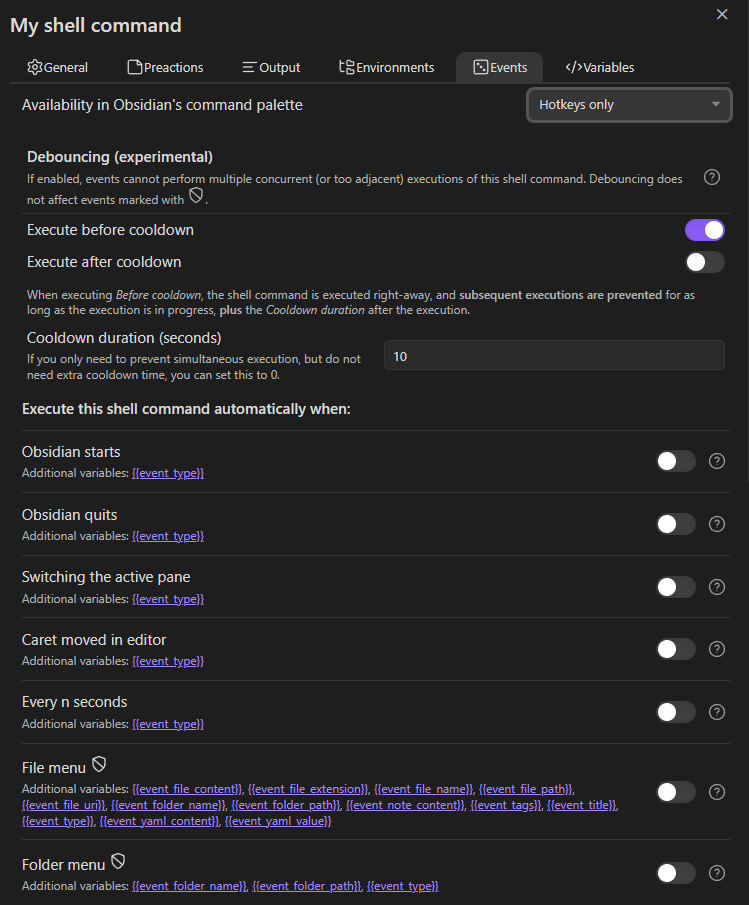
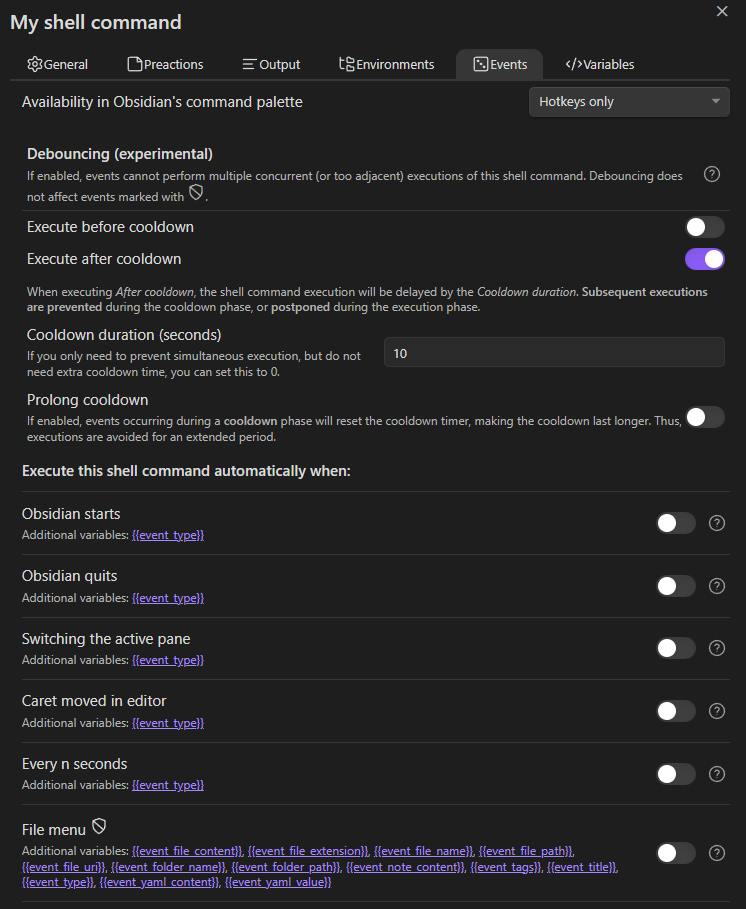
[[Events - debouncing.md]]: Information about _Prolong cooldown_.
https://github.com/Taitava/obsidian-shellcommands/issues/380

diff --git a/Events/Events - debouncing.md b/Events/Events - debouncing.md
@@ -38,6 +38,16 @@ aliases:
 > Shell\;command\;execution\;duration + Cooldown\;duration = Debounce\;total\;duration\;
 > $$
 
+### Cooldown can be prolonged
+Below the _Cooldown duration_ setting, there is another setting called _Prolong cooldown_. If turned on, then each discarded or postponed event occurrence that happens **during a cooldown phase** will cause the cooldown to **start over**. This prolongs the phase (during which shell command execution is postponed or discarded) for as long as events keep occurring.
+
+> [!Success] Ideal use case for cooldown prolonging
+> Prolonging is ideal for example when editing files triggers automatic backup or synchronization. These processes are only wanted to be executed after all edits are done.
+
+> [!Warning] When cooldown prolonging is not beneficial
+> - Prolonging is not desired when results are needed quickly, and when multiple executions (even unnecessary ones) do no harm.
+> - For example, a `git lens` command that outputs the latest [Git](https://git-scm.com) commit time, message and author, is expected to be executed shortly after moving the caret in editor, so _Prolong cooldown_ should be turned off.
+
 ## Different debouncing modes
 
 There are different modes for deciding in which order shell command _execution_ and _cooldown_ should happen, each having their own ideal use cases.
